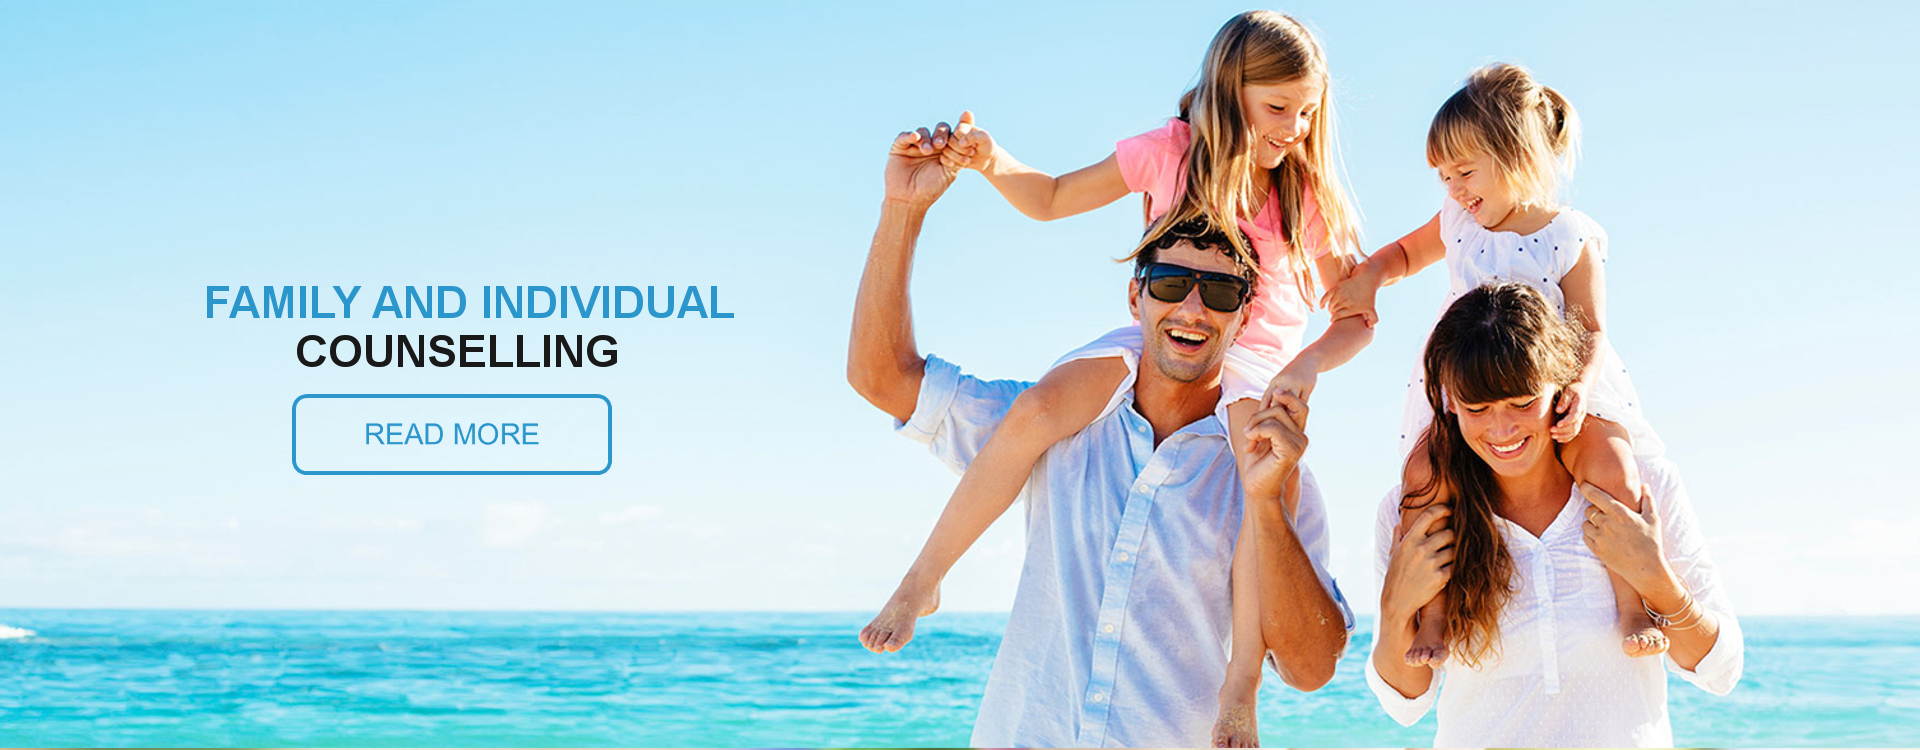
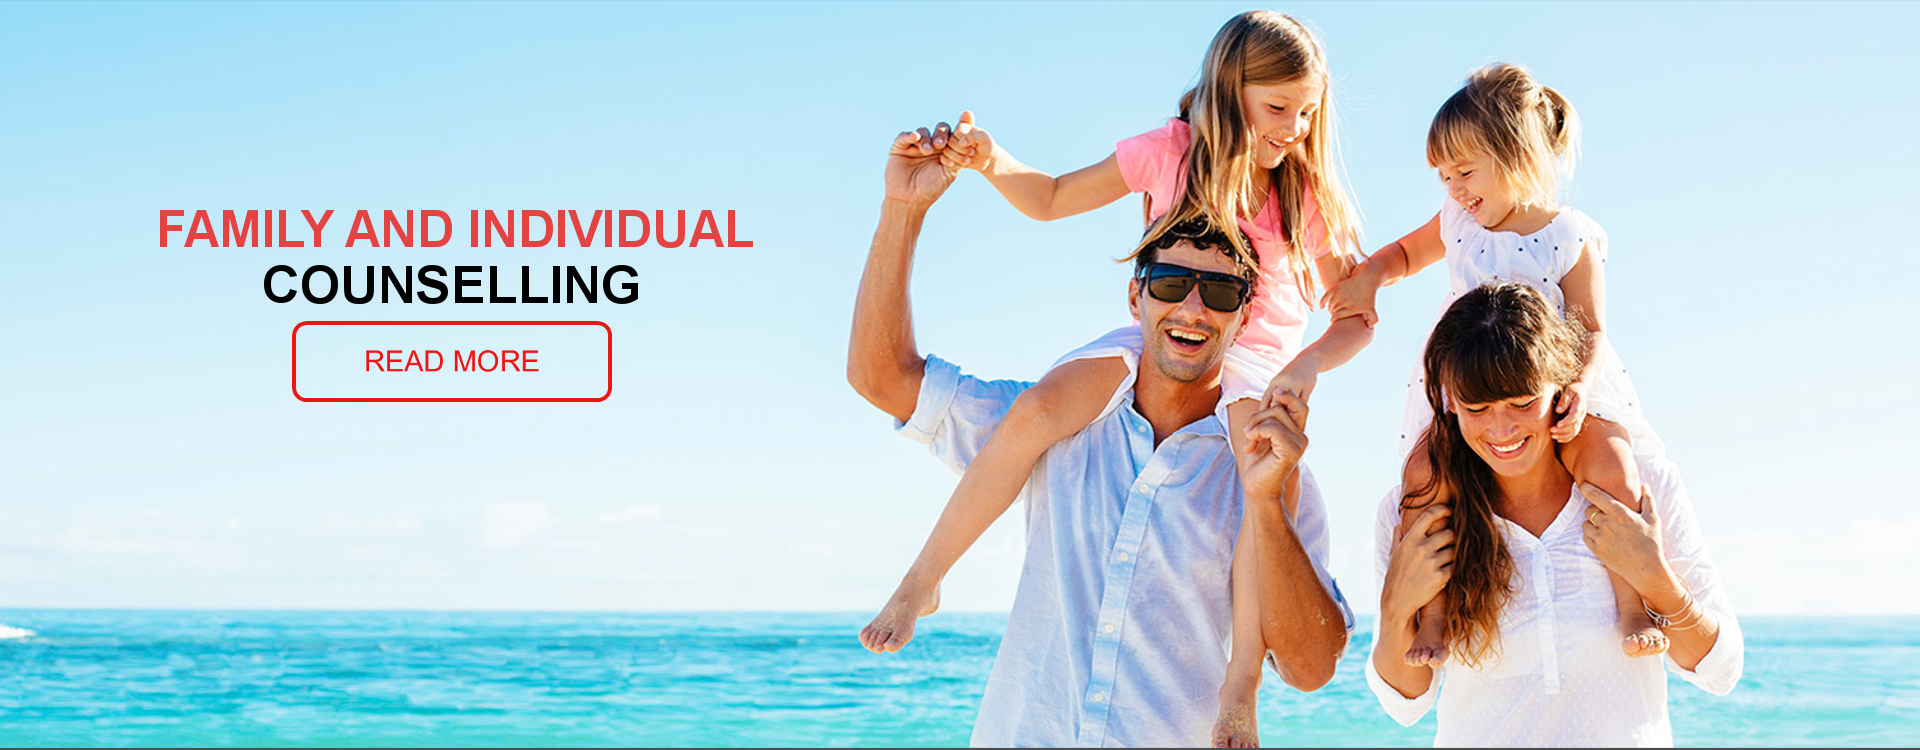
Changes to the layout
putting red in the css for icons, changing banner images, putting
favicon, and editing services buttons

Changed region(s): [[0.0625, 0.276, 0.4062, 0.4907], [0.0, 0.9813, 1.0, 1.0], [0.1562, 0.5213, 0.3125, 0.644]]

diff --git a/index.html b/index.html
@@ -139,10 +139,10 @@
 										<li><a href="services-ibi.html">IBI</a></li>
 										<li><a href="services-aba.html">ABA</a></li>
 										<li><a href="services-counselling.html">Counselling</a></li>
-										<li><a href="services-occupational.html">Occupational Thearpy</a></li>
-										<li><a href="services-group.html">Group Programs, Workshops, Camp</a></li>
+										<li><a href="services-occupational.html">Occupational Therapy</a></li>
+										<li><a href="services-group.html">Programs & Workshops</a></li>
 										<li><a href="services-parent.html">Parent Support</a></li>
-										<li><a href="services-speech.html">Speech and Language</a></li>
+										<li><a href="services-speech.html">Speech & Language</a></li>
 										<li><a href="services-educational.html">Educational Services</a></li>
 										<li><a href="services-school.html">School Advocacy</a></li>
 										<li><a href="services-psychological.html">Psychological Services</a></li>
@@ -271,9 +271,9 @@
 					<div class="col-md-6 bg-default">
 						
 						<div class="home-box">
-							<span class="glyphicon glyphicon-heart-empty"></span>
-							<h3>Integrate Health Service</h3>
-							<p>Our programs support families and enhance the overall well-being of children who may have social, emotional and behavioural differences.</p>
+							<span class="glyphicon glyphicon-heart"></span>
+							<h3>Kids Clinic</h3>
+							<p>The Kids Clinic improves the quality of life of children, youth and adults with behavioural, developmental and psychiatric disorders.</p>
 							<a href="#." class="btn-rounded btn-bordered">Read more</a>
 						</div>
 						
@@ -287,7 +287,7 @@
 					
 					<div class="container">
 						<h1>Check Out Our Events</h1>
-						<p class="lead">At Integrate Health Service, there is always something fun going on. Join us informative sessions.</p>
+						<p class="lead">At Integrate Health Service, there is always something fun going on. Join us for informative sessions.</p>
 						
 						<a href="#." class="btn-rounded btn-bordered" style = "border-color: #fff; text-transform: uppercase; color: #fff;">Check Events </a>
 					</div>
@@ -302,7 +302,7 @@
 					<div class="container">
 						
 						<h1>Get in Touch with us</h1>
-						<p class="lead">Need more help, write us a message to us.</p>
+						<p class="lead">Need more help, write a message to us.</p>
 						
 						<div class="row">
 							
@@ -338,28 +338,60 @@
 					<h2 class="light bordered">Our <span>Services</span></h2>
 				
 					<div class="service-box one">
-						<span class="icon img-circle"><i class="fa fa-lightbulb-o"></i></span>
-						<h4><a href="#.">creative doctors</a></h4>
-						<p>If you need a doctor for to consectetuer Lorem ipsum dolor, consectetur adipiscing elit. Ut volutpat eros  adipiscing elit Ut volutpat. cancer care is power of dummy for all business.</p>
+						<span class="icon img-circle"><i class="fa fa-road"></i></span>
+						<h4><a href="#.">Intensive Behavioural Intervention</a></h4>
+						<p>IBI or Intensive Behavioural Intervention is a specific type of teaching for children diagnosed with Autism Spectrum Disorders</p>
 					</div>
 					
 					<div class="service-box two">
-						<span class="icon img-circle"><i class="fa fa fa-flask"></i></span>
-						<h4><a href="#.">creative doctors</a></h4>
-						<p>If you need a doctor for to consectetuer Lorem ipsum dolor, consectetur adipiscing elit. Ut volutpat eros  adipiscing elit Ut volutpat. cancer care is power of dummy for all business.</p>
+						<span class="icon img-circle"><i class="fa fa-user-md"></i></span>
+						<h4><a href="#.">Applied Behaviour Analysis</a></h4>
+						<p>Applied Behaviour Analysis (ABA) is a treatment method that has been clinically proven to help children learn new skills</p>
 					</div>
 					
+					<div class="service-box one">
+						<span class="icon img-circle"><i class="fa fa-link"></i></span>
+						<h4><a href="#.">Counselling</a></h4>
+						<p>Counselling services are tailored to meet individual needs. We provide a non-judgmental and supportive environment that focuses on identifying individual and family strengths</p>
+					</div>
+					
+					<div class="service-box two">
+						<span class="icon img-circle"><i class="fa fa-money"></i></span>
+						<h4><a href="#.">Occupational Therapy</a></h4>
+						<p>Occupational therapy (OT) helps people of all ages solve challenges interfering with their ability to manage every day activities that are most important to them</p>
+					</div>
+
+					<div class="service-box one">
+						<span class="icon img-circle"><i class="fa fa-users"></i></span>
+						<h4><a href="#.">Group Programs, Workshops, Camps</a></h4>
+						<p>Our youth group programs provide the opportunity for your child or youth to learn, relate and communicate with their peers in a group environment.</p>
+					</div>
+
+					<div class="service-box two">
+						<span class="icon img-circle"><i class="fa fa-pagelines"></i></span>
+						<h4><a href="#.">Parent Support</a></h4>
+						<p>These informal support programs take place once a month and allow parents/guardians to connect with others who have similar concerns</p>
+					</div>
+
+					<div class="service-box one">
+						<span class="icon img-circle"><i class="fa fa-comments-o"></i></span>
+						<h4><a href="#.">Speech and Language Therapy</a></h4>
+						<p>Speech-Language Pathologists focus on helping children communicate effectively which is an essential aspect to quality of life</p>
+					</div>
+
+					<div class="service-box two">
+						<span class="icon img-circle"><i class="fa fa-pencil"></i></span>
+						<h4><a href="#.">Education Services</a></h4>
+						<p>Our team of specialists will complete a thorough assessment of your child's educational strengths and challenges</p>
+					</div>
+
 					<div class="service-box three">
-						<span class="icon img-circle"><i class="fa fa-tint"></i></span>
-						<h4><a href="#.">creative doctors</a></h4>
-						<p>If you need a doctor for to consectetuer Lorem ipsum dolor, consectetur adipiscing elit. Ut volutpat eros  adipiscing elit Ut volutpat. cancer care is power of dummy for all business.</p>
+						<span class="icon img-circle"><i class="fa fa-key"></i></span>
+						<h4><a href="#.">Psychological Services</a></h4>
+						<p>Kids Clinic provides a range of brief and comprehensive assessment services for children, adolescents and adults</p>
 					</div>
-					
-					<div class="service-box four">
-						<span class="icon img-circle"><i class="fa fa-phone"></i></span>
-						<h4><a href="#.">creative doctors</a></h4>
-						<p>If you need a doctor for to consectetuer Lorem ipsum dolor, consectetur adipiscing elit. Ut volutpat eros  adipiscing elit Ut volutpat. cancer care is power of dummy for all business.</p>
-					</div>
+
+
 					
 				</section>
 		
@@ -521,7 +553,7 @@
 								<i class="fa fa-home"></i><p>Integrate Health Service, 300 Rossland Road E, Suite 301, Ajax, ON L1Z 0M1</p>
 								<i class="fa fa-globe"></i><p><a href="#.">www.integrate-health.ca/</a></p>
 								<i class="fa fa-mobile"></i><p class="phone-number">905.683.7228</p>
-								<i class="fa fa-phone-square"></i><p class="fax-number">905.683.3303</p>
+								<!--i class="fa fa-phone-square"></i><p class="fax-number">905.683.3303</p-->
 							</div>
 							
 							<ul class="social3 clearfix">

diff --git a/css/integrate.css b/css/integrate.css
@@ -876,7 +876,7 @@ ABOUT ( counters )
 -------------------------------------------------------------------*/
 
 .about-sec {
-	background:url(../images/about-bg.jpg) repeat center top;
+	background:url(../images/about-bg-sample.jpg) repeat center top;
 	background-attachment:fixed;
 	height: 530px;
 	padding: 110px 0 50px;
@@ -1037,7 +1037,7 @@ SERVICES BOX
 .icon {
 	width:85px;
 	height:85px;
-	background-color:#787878;
+	background-color:#e54242;
 	display:inline-block;
 	border:3px solid #fff;
 	box-shadow:0px 0px 0px 1px #787878;
